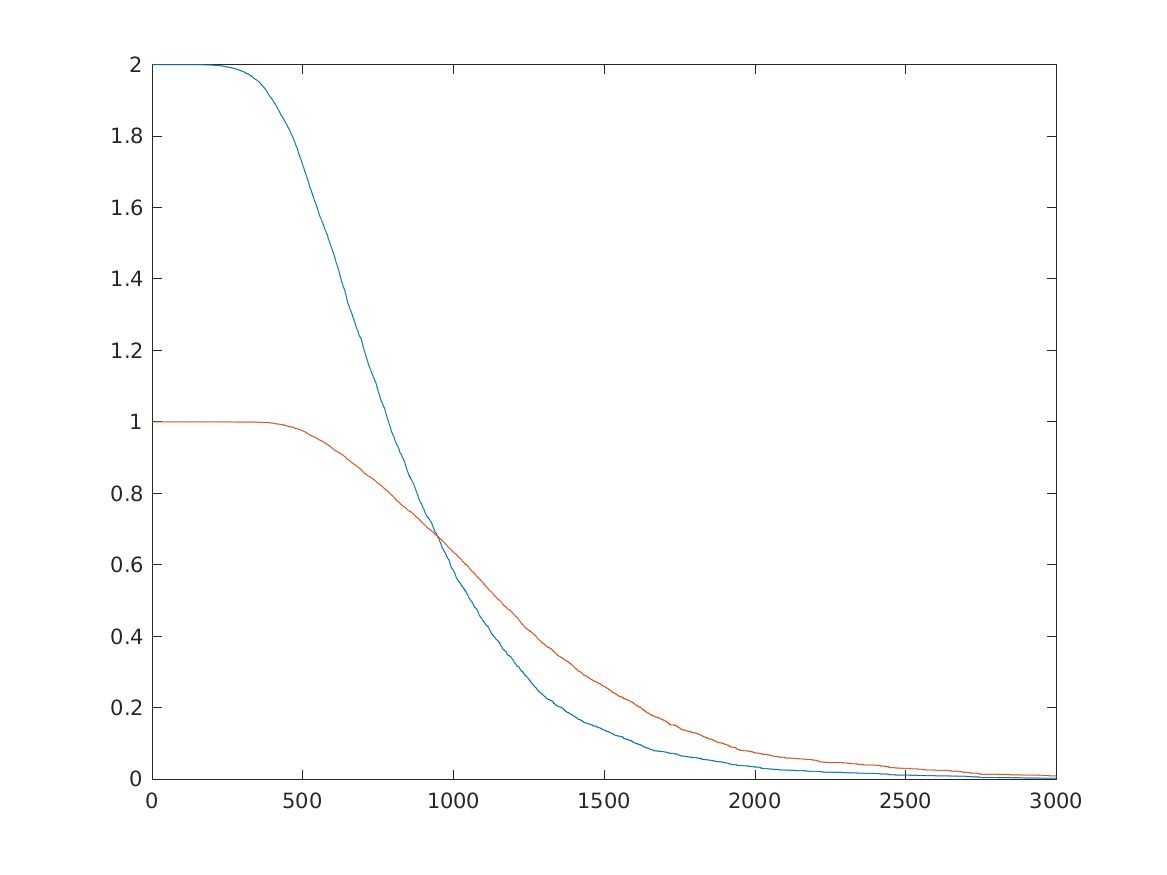
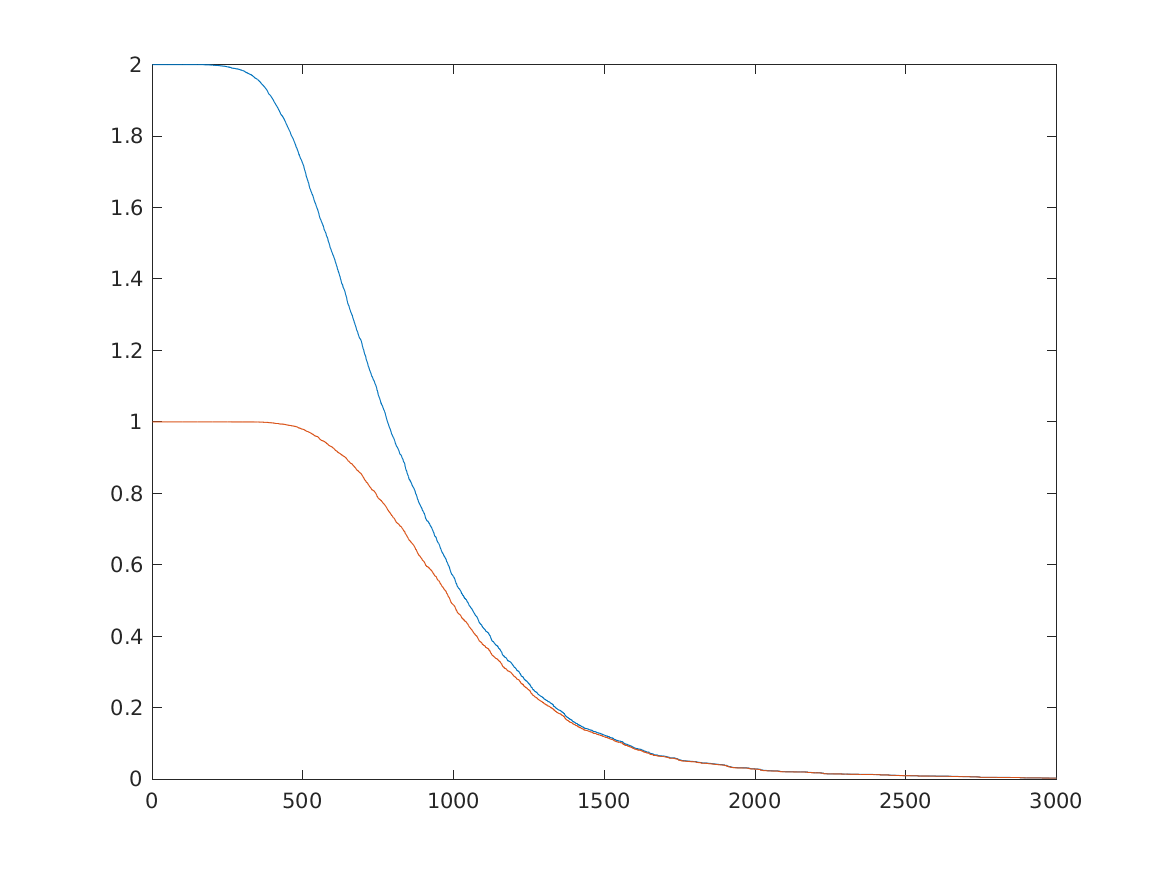
wip

diff --git a/img/empiricalMaxClusSizes_2t.m b/img/empiricalMaxClusSizes_2t.m
@@ -36,11 +36,8 @@ function empiricalMaxClusSizes_2t(nSims, thresh, dim, D, FWHM)
         
         % Generate data and calculate the maximum cluster size.
         [~, ~, simVals_u] = numOfConComps(sim, thresh, D, 'upper');
-        [~, ~, simVals_l] = numOfConComps(sim, thresh, D, 'lower');
-        
-        disp(simVals_u)
-        disp(simVals_l)
-        
+        [~, ~, simVals_l] = numOfConComps(sim, -thresh, D, 'lower');
+                
         % Record upper occurences.
         occurences_u(max(simVals_u)) = occurences_u(max(simVals_u)) + 1;
         
@@ -48,7 +45,7 @@ function empiricalMaxClusSizes_2t(nSims, thresh, dim, D, FWHM)
         occurences_l(max(simVals_l)) = occurences_l(max(simVals_l)) + 1;
         
         % Record either upper of lower occurences.
-        occurences_e(min(max(simVals_l), max(simVals_u))) = occurences_e(min(max(simVals_l), max(simVals_u))) + 1;
+        occurences_e(max(max(simVals_l), max(simVals_u))) = occurences_e(max(max(simVals_l), max(simVals_u))) + 1;
         
         
     end
